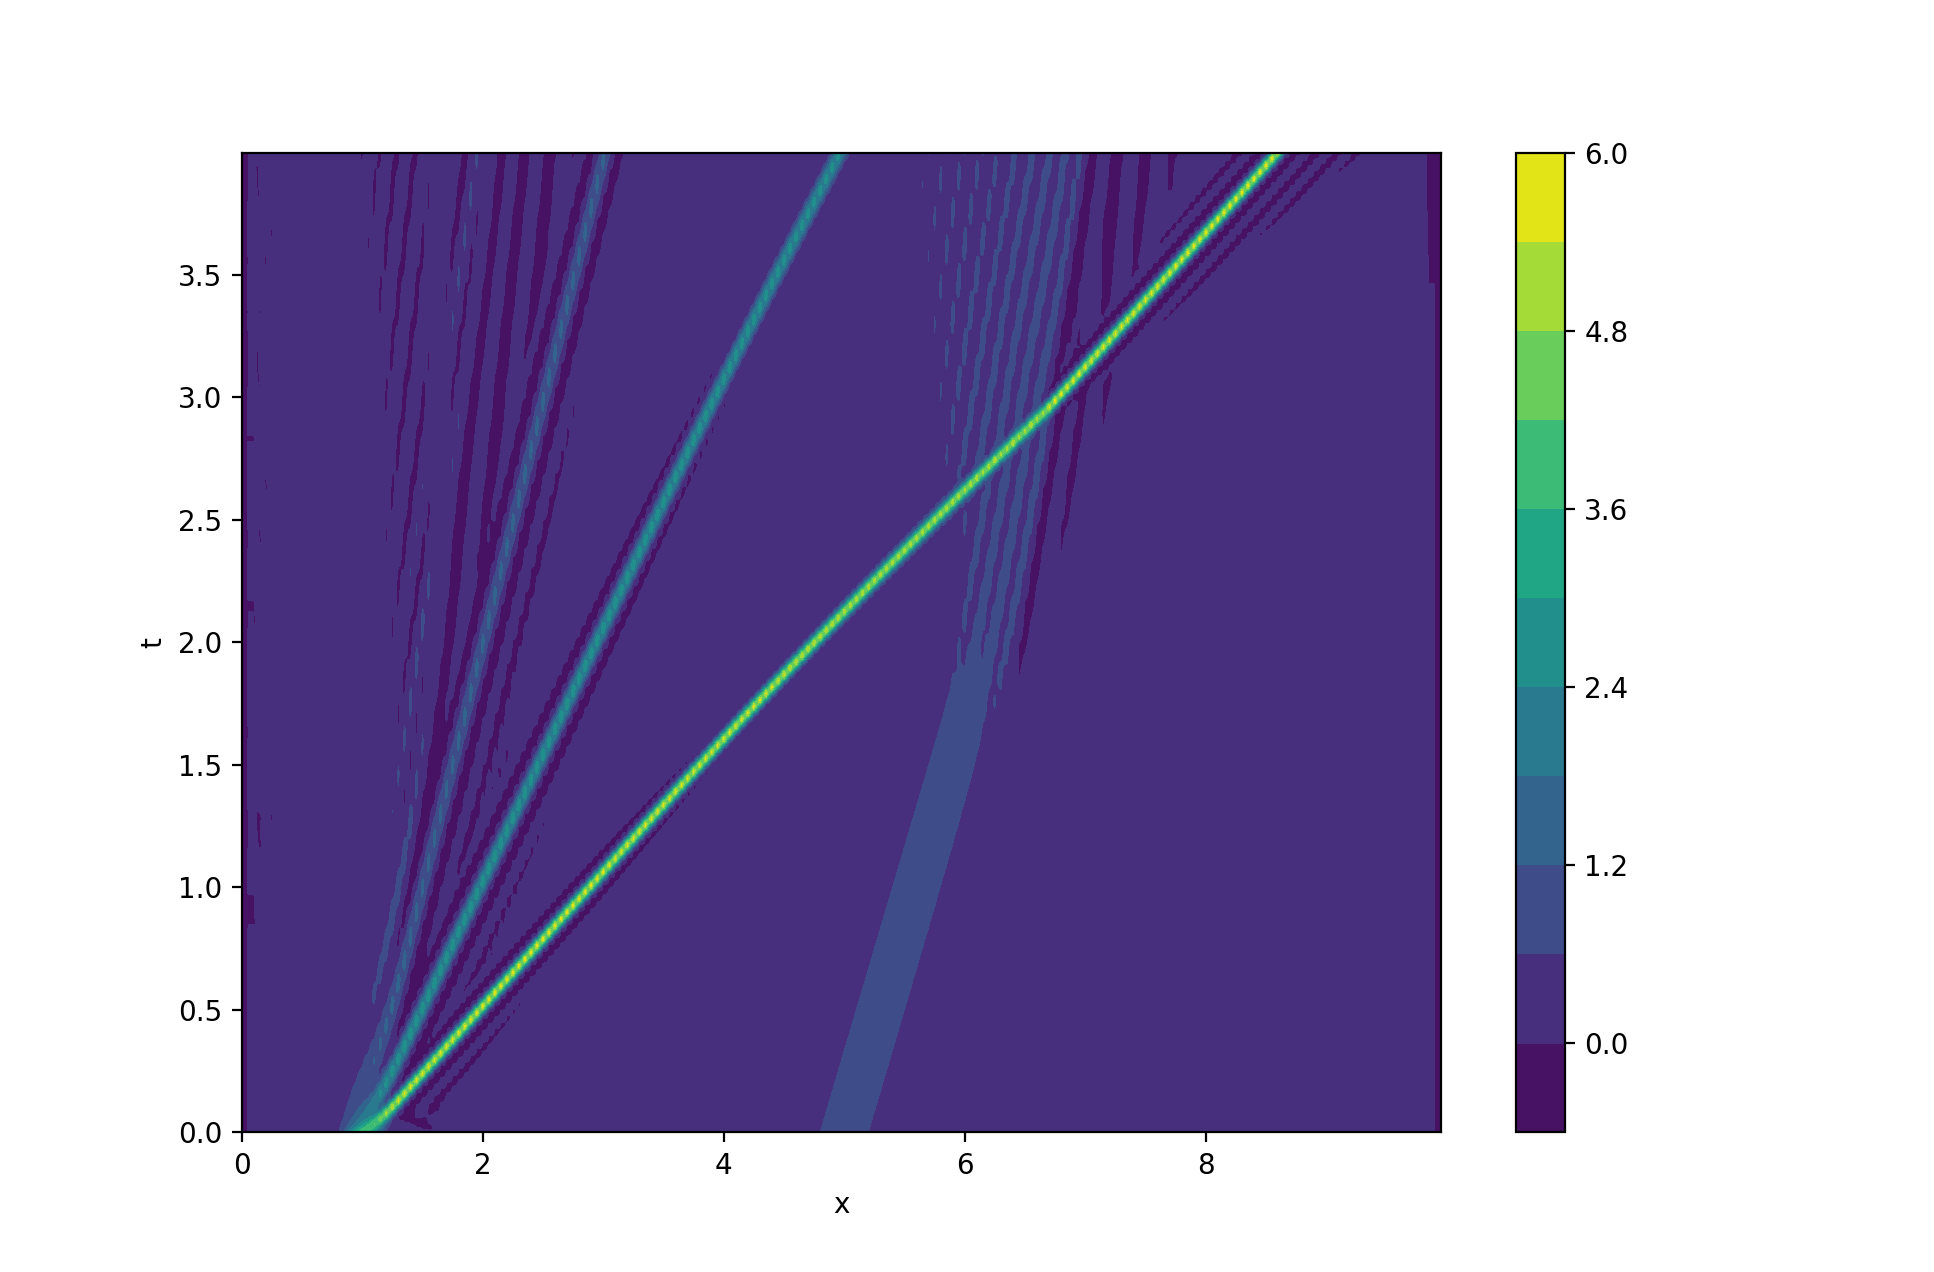
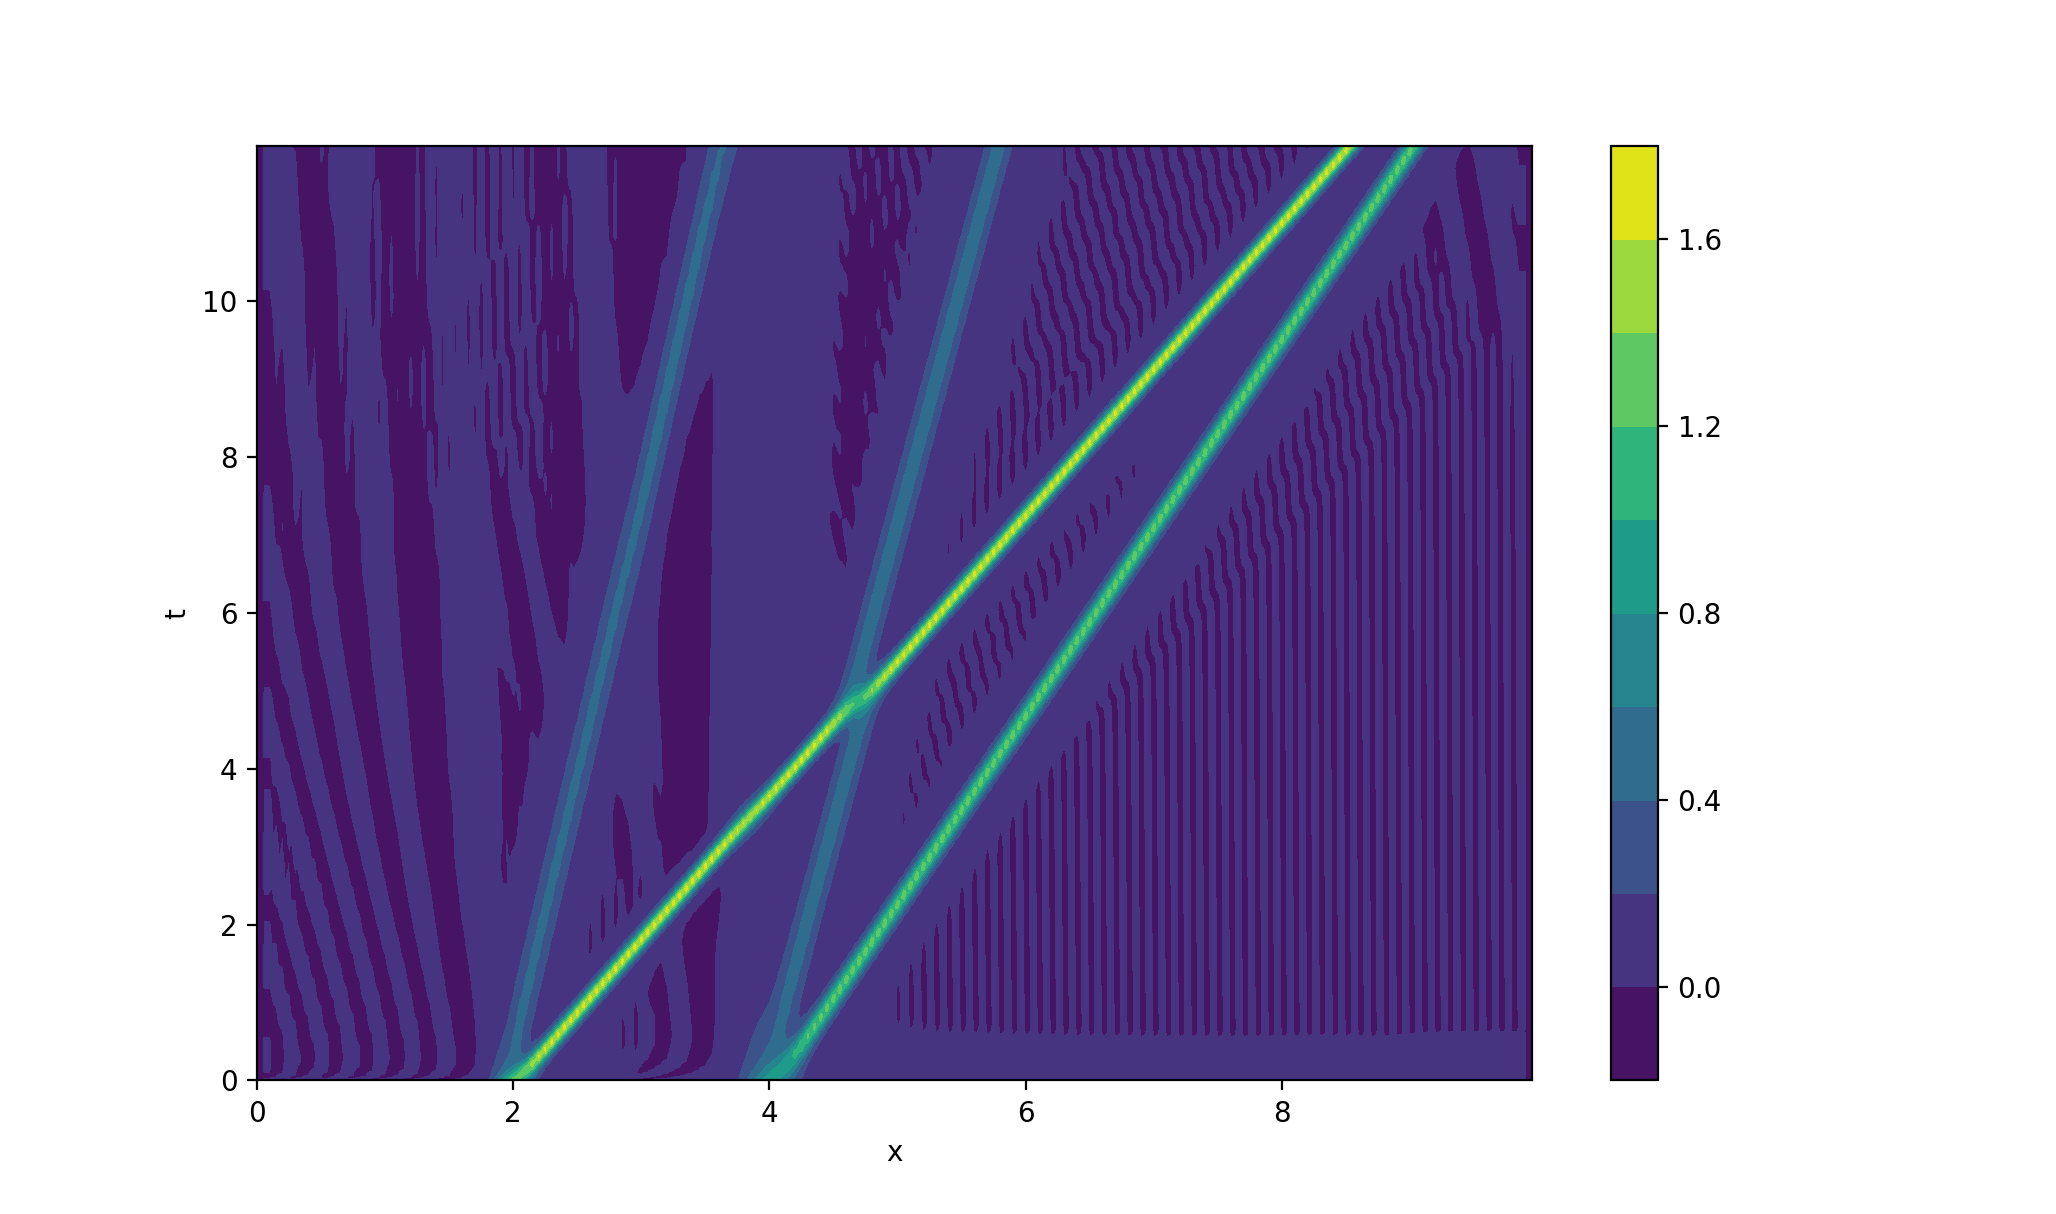
Màj code et illustrations après correction de la faute de signe

Changed region(s): [[0.0931, 0.1219, 0.7446, 0.9143], [0.7756, 0.1219, 0.8376, 0.8839]]

diff --git a/ondes.py b/ondes.py
@@ -1,23 +1,55 @@
 # -*- coding: utf-8 -*-
 import matplotlib.pyplot as plt
 import numpy as np
-from numpy import sqrt, pi ,exp
+from numpy import sqrt, pi ,exp, cos
 from scipy.stats import hypsecant
 
-
-def onde1(x):
-    return (1/sqrt(2*np.pi*0.01)) * exp(-50*(x-1)**2)
-    
-def onde2(x):
-    return (1/sqrt(2*np.pi*0.4)) * exp(-1.25*(x-5)**2)
-    
-def u0(x):
-    return onde1(x) + onde2(x)
-
 delta = 0.02
+
+
+
+
+# Gaussiennes
+def gauss1(x):
+    return (1/sqrt(2*np.pi*0.1)) * exp(-50*(x-2)**2)
+    
+def gauss2(x):
+    return (1/sqrt(2*np.pi*0.2)) * exp(-25*(x-4)**2)
+    
+def gauss(x):
+    return gauss1(x) + gauss2(x)
+
+
+
+
+
+
+# Solitons
+def soliton1(x,c,a):
+    return 0.5*c*(pi*hypsecant.pdf((x-a)*sqrt(c)/2))**2
+
+def soliton2(x,c,a):
+    return 0.5*c*(pi*hypsecant.pdf((x-a)*sqrt(c)/2))**2
+
+def solit(c1,a1,c2,a2):
+    def sol_(x):
+        return soliton1(x,c1,a1) + soliton2(x,c2,a2)
+    return sol_
+
+
+
+
+# Cosinus
+def cos2(x):
+    return 0.5*cos(0.5*x-0.5*pi)**2
     
 
-def time_ev(u_0, t_f, k, x_f, h):
+
+
+
+
+# Résolution numérique
+def time_ev(u_0, t_f, k, x_f, h, snaps = []):
     x_range = [i*h for i in range(int(x_f/h))]
     U = []
     U.append([u_0(x) for x in x_range])
@@ -31,13 +63,14 @@ def time_ev(u_0, t_f, k, x_f, h):
         else:
             u2 = U[-2]
             
-        U.append([0,0] + [u2[i] - (k/(3*h)) *(u1[i+1] + u1[i] + u1[i-1]) * (u1[i+1] - u1[i-1]) + (delta**2) * (k/(h**3)) * (u1[i+2] - 2*u1[i+1] + 2*u1[i-1] - u1[i-2])  for i in range(2,len(u1)-2)] + [0,0])
-    """plt.plot(x_range, U[0], label = "t=0")
-    plt.plot(x_range, U[100], label = "t=0.1")
-    plt.plot(x_range, U[1000], label = "t=1")
+        U.append([0,0] + [u2[i] - (k/(3*h)) *(u1[i+1] + u1[i] + u1[i-1]) * (u1[i+1] - u1[i-1]) - (delta**2) * (k/(h**3)) * (u1[i+2] - 2*u1[i+1] + 2*u1[i-1] - u1[i-2])  for i in range(2,len(u1)-2)] + [0,0])
+        
+        
+    for s in snaps:
+        plt.plot(x_range, U[int(s/k)], label = "t = {}".format(s))
     plt.legend()
     plt.show()
-    plt.clf()"""
+    plt.clf()
     
     [xx,tt]=np.meshgrid(x_range,t_range)
     plt.contourf(xx,tt, np.array(U), levels = 10)
@@ -47,17 +80,9 @@ def time_ev(u_0, t_f, k, x_f, h):
     plt.show()
     
     
-def soliton1(x,c,a):
-    return 0.5*c*(pi*hypsecant.pdf((x-a)*sqrt(c)/2))**2
-
-def soliton2(x,c,a):
-    return 0.5*c*(pi*hypsecant.pdf((x-a)*sqrt(c)/2))**2
-
-def solit(c1,a1,c2,a2):
-    def sol_(x):
-        return soliton1(x,c1,a1) + soliton2(x,c2,a2)
-    return sol_
     
     
 if __name__ == "__main__":
-    time_ev(solit(20,15,40,5), 6, 0.001, 40, 0.5)
+    #time_ev(gauss, 12, 0.0005, 10, 0.05, [0,4,8,11.5])
+    #time_ev(solit(8,15,16,5), 13, 0.001, 45, 0.5, [0,4,8,12])
+    time_ev(cos2, 8, 0.0001, 2*pi, 0.05, [0,1,4,5.5])
